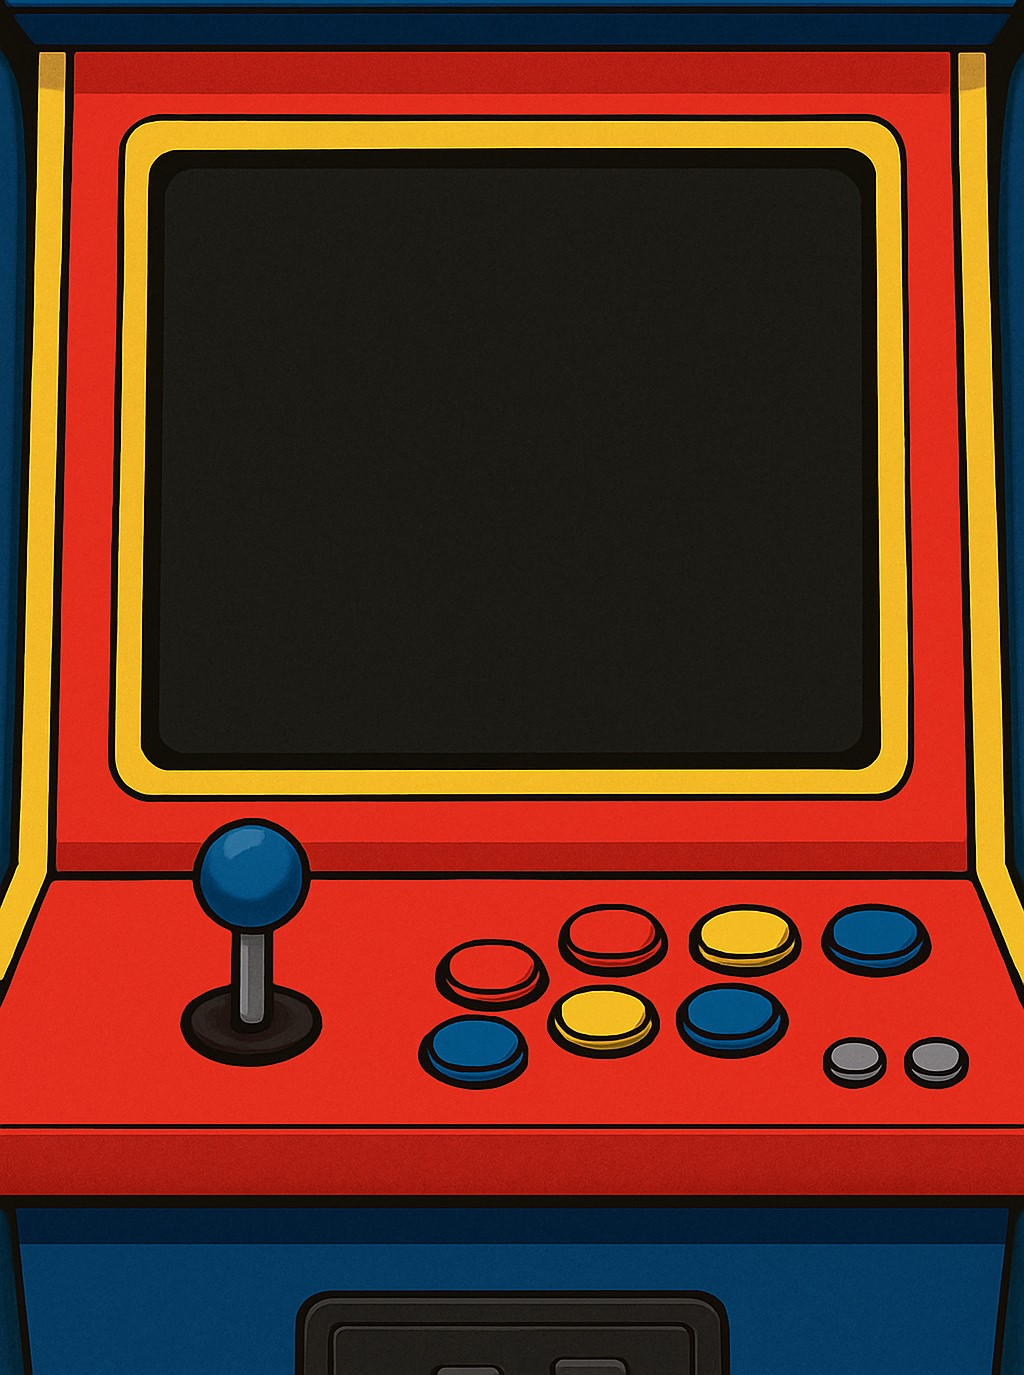
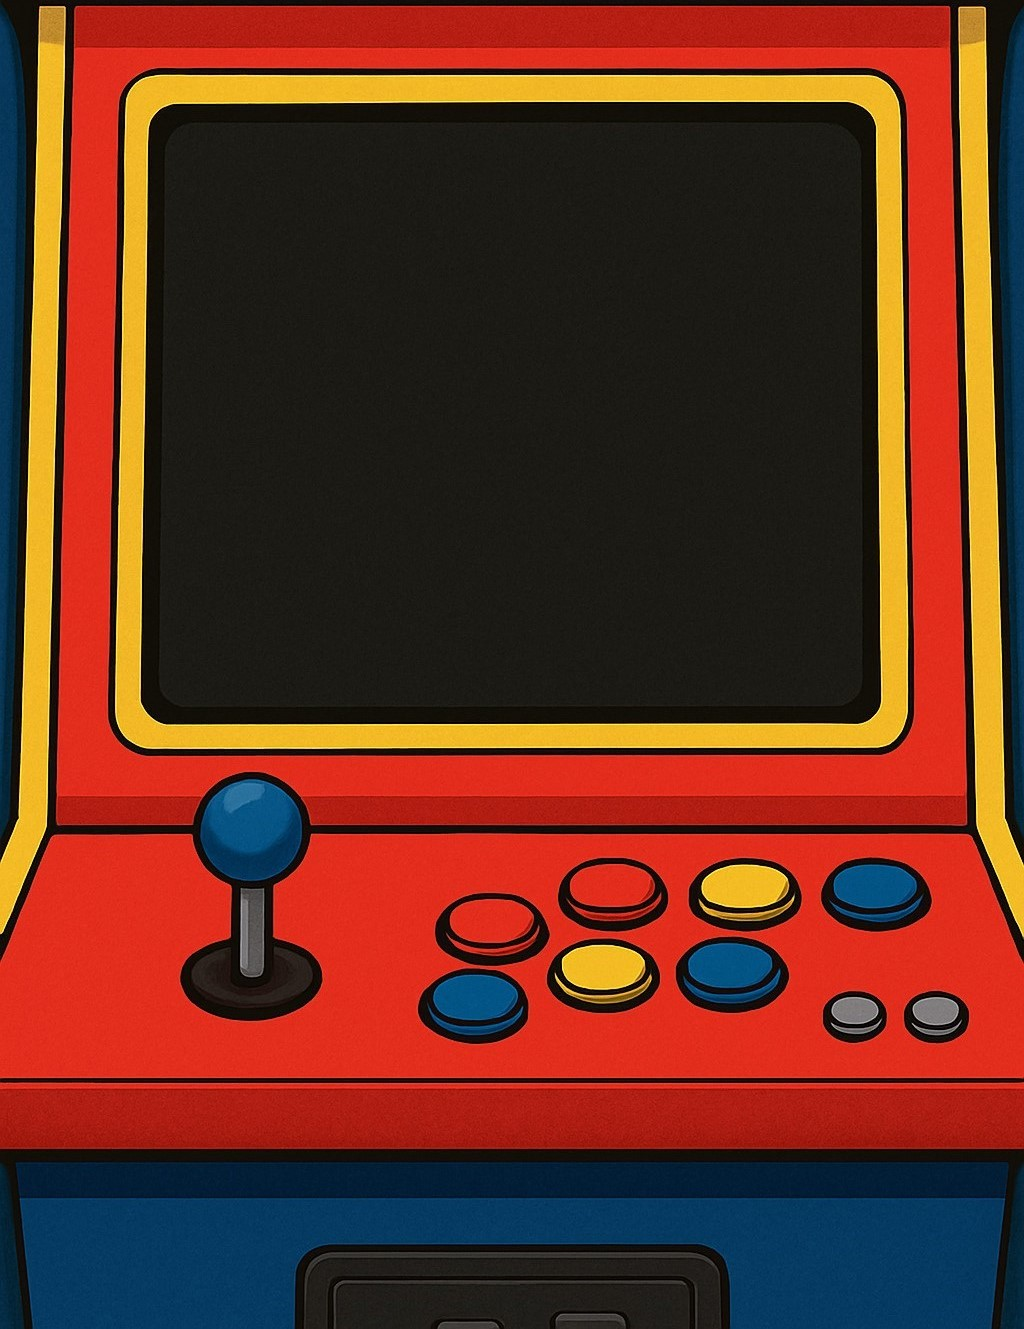
سلام يا ويبسايت يا عادي

diff --git a/style.css b/style.css
@@ -1281,7 +1281,7 @@ header .menu {
   padding: 40px 50px;
   text-align: center;
   position: relative;
-  margin-bottom: 290px;
+  margin-bottom: 270px;
   left: -21%;
   height: 72%;
 
@@ -1406,7 +1406,7 @@ header .menu {
   top: 100%;
   right: 19%;
   z-index: 55;
-  margin-top: 90px;
+  margin-top: 80px;
 }
 
 

diff --git a/index.html b/index.html
@@ -679,7 +679,7 @@
   <!-- onlinnnnnnnnnnnnnnnnnnnnnnnnnnnnnnnnnnnnnnnne -->
 
   <section class="five" id="online-section">
-    <img class="sora" src="materials/tttttttttttttt.jpg" alt="">
+    <img class="sora" src="materials/هشوف.jpg" alt="">
     <div class="online2-l">
       <div class="game-section">
 
